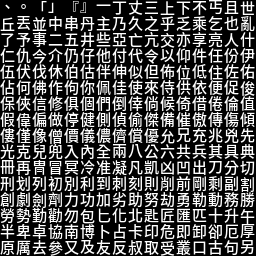
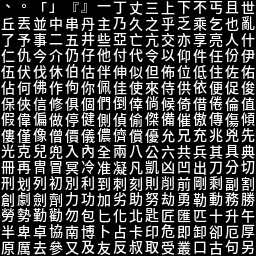
A:固定版面列距修正 + CJK 14px(文字小一點)
- intro.cpp 主選單 5 項 2 列距(rows 2/4/6/8/10)+ 命名提示 row 2/4
- build_cjk_font.py 加 --cell:CJK 14px 置中於 16px cell → 行距有呼吸空間
- assets/cjk_font.bin 重建為 14px/16cell;引擎 cjkBlit 免改(cell=16 步距)
- apply_cht.sh / SETUP 預設改 --size 14 --cell 16
- docs/screenshots:06 更新主選單、08_cjk_14px 對比(16px相黏→14px清楚)
- patch 含 intro.cpp;PLAN §10g 更新

diff --git a/tools/build_cjk_font.py b/tools/build_cjk_font.py
@@ -67,7 +67,10 @@ def main():
     ap.add_argument("--font", required=True)
     ap.add_argument("--index", type=int, default=0,
                     help=".ttc face index(Noto Sans CJK TC = 3)")
-    ap.add_argument("--size", type=int, default=16)
+    ap.add_argument("--size", type=int, default=16,
+                    help="字型 glyph 像素大小")
+    ap.add_argument("--cell", type=int, default=0,
+                    help="atlas cell 邊長(預設 = size);可大於 size 讓 glyph 縮小置中")
     ap.add_argument("--mode", choices=["gray", "binary"], default="gray",
                     help="gray=抗鋸齒 alpha(預設);binary=二值化")
     ap.add_argument("--out", required=True)
@@ -75,9 +78,8 @@ def main():
     args = ap.parse_args()
 
     chars = collect_codepoints()
-    # 字型 size 略小於 cell 留邊
-    font = ImageFont.truetype(args.font, args.size - 1, index=args.index)
-    W = H = args.size
+    font = ImageFont.truetype(args.font, args.size, index=args.index)
+    W = H = args.cell if args.cell > 0 else args.size   # cell 可大於字型 → 留邊置中
 
     os.makedirs(os.path.dirname(args.out), exist_ok=True)
     glyphs = []

diff --git a/PLAN.md b/PLAN.md
@@ -306,7 +306,11 @@ CJK 字型 + H1 hook PoC,headless Docker 驗證通過:
 - ✅ 主選單中文(啟程冒險/開始新遊戲/設定/關於)、命名提示、**性別提問「汝為男子抑或女子?」完美**。
 - 截圖 `docs/screenshots/06_intro_menu_cht.png`、`07_charcreate_cht.png`。
 
-**🟠 已知問題(P7 待修)— 固定版面列距**:孤立單行 CJK 完美;但**選單列表 / 多行 prompt** 在 caller 硬編 8px 列距下,CJK 16px **垂直重疊**。訊息區(`screenMessageN`/`screenMessageCJK`)已用 `line+=2` 避開,對白 OK;**固定版面螢幕需 caller 端(intro.cpp)CJK-aware 列距**。
+**固定版面列距 — ✅ 已修(2026-06-04)**:
+- `intro.cpp` 主選單 5 項改 2 列距(rows 2/4/6/8/10,捨「Options:」)、命名提示兩行改 row 2/4。
+- **CJK 縮為 14px 置中於 16px cell**(`build_cjk_font.py --size 14 --cell 16`)→ 行距有呼吸空間、更清晰、「文字小一點」;引擎 `cjkBlit` 仍以 cell(16)為步距,免改。
+- 對比 `docs/screenshots/08_cjk_14px.png`(16px 滿格相黏 → 14px 行距清楚)、主選單 `06_intro_menu_cht.png`。
+- ⚠️ 仍屬「2 列距」方案:固定螢幕用較多垂直空間(選項較少可見)。徹底解 = 640×400 內部解析度(見 §10h spike)。
 
 **建置 gotcha 修正**:Docker `COPY` 層快取會用舊 source/資產 → `Dockerfile.zh` 加 `ARG CACHEBUST`(改碼後 `--build-arg CACHEBUST=<新值>` 強制重編);`textview.cpp` 補 `<cstring>`。
 

diff --git a/SETUP.md b/SETUP.md
@@ -125,7 +125,7 @@ python3 tools/talk_batches.py merge --in dumps/talk_bilingual.json
 ```bash
 # 產生 CJK 字型 atlas(掃四源 zh,1978 漢字)+ en→zh 二進位 lookup
 python3 tools/build_cjk_font.py --font /usr/share/fonts/opentype/noto/NotoSansCJK-Medium.ttc \
-  --index 3 --size 16 --mode gray --out assets/cjk_font.bin --preview assets/cjk_preview.png
+  --index 3 --size 14 --cell 16 --mode gray --out assets/cjk_font.bin --preview assets/cjk_preview.png
 # (--index 3 = Noto Sans CJK TC;--mode gray = 灰階抗鋸齒,預設;Medium 比 Ming/Bold 易讀)
 python3 tools/build_lookup.py --out assets/u4_cht.tab
 

diff --git a/patches/engine/README.md b/patches/engine/README.md
@@ -8,7 +8,7 @@
 | 檔案 | 說明 |
 |---|---|
 | `cht.h` / `cht.cpp` | 新模組:載入 `cjk_font.bin`/`u4_cht.tab`,提供 `chtLookup`(en→zh,二分查找)+ `chtGlyph`(CJK 16×16 alpha) |
-| `cht-engine.patch` | 改 `src/screen.cpp`(+`cjkBlit`/`screenMessageCJK`/H1 hook/self-test)、`project.b`、`src/Makefile.common`(編譯掛載) |
+| `cht-engine.patch` | 改 `src/screen.cpp`(+CJK 渲染)、`src/textview.cpp`(選單/角色創建 hook)、`src/intro.cpp`(固定版面 2 列距)(+`cjkBlit`/`screenMessageCJK`/H1 hook/self-test)、`project.b`、`src/Makefile.common`(編譯掛載) |
 
 ## 套用
 